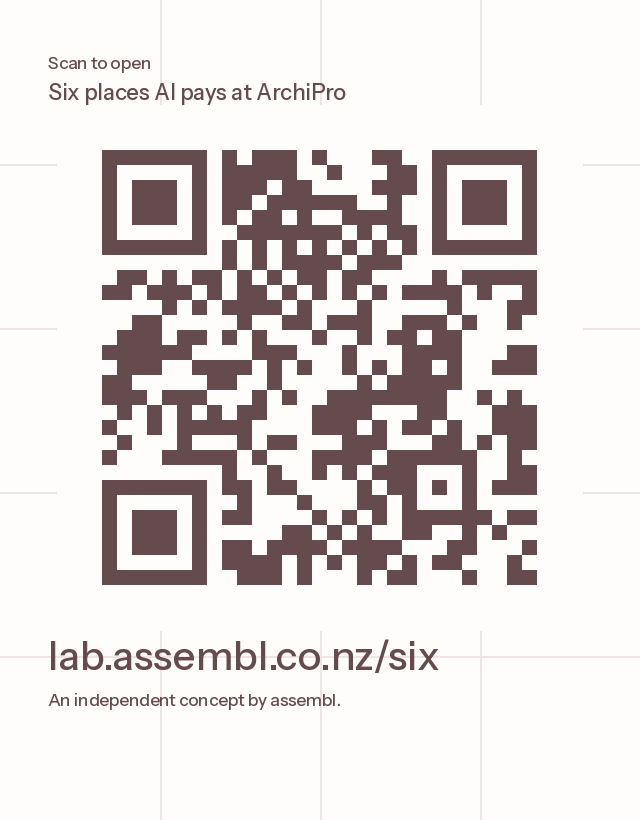
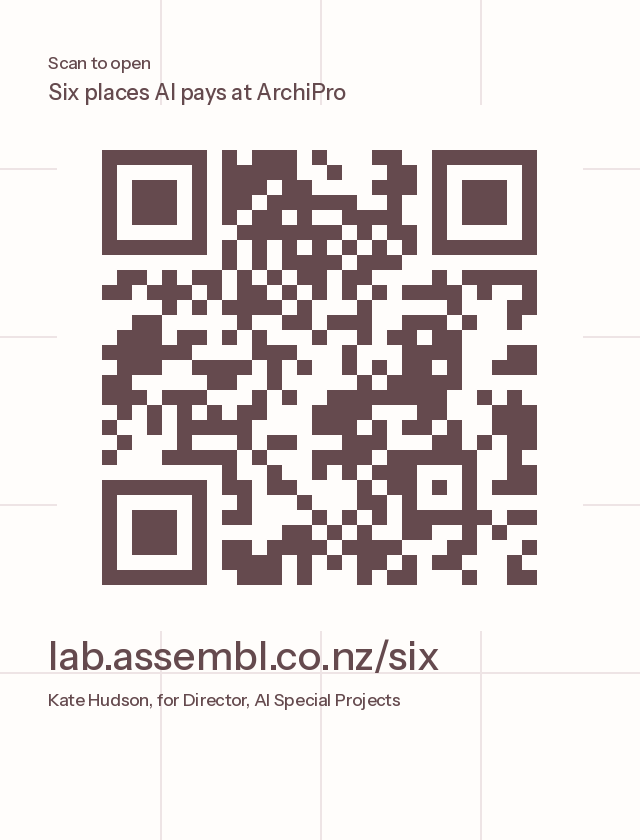
ArchiPro concept: framed as Kate's working sample for Director, AI Special Projects
The hero, title, closing note, footer and link preview now say this is Kate's working sample for the role; the first
ninety days are named as such; the studio guide knows why the page exists and answers "Why Kate for AI Special
Projects?" from what the page shows; the QR card carries the role.

Claude-Session: https://claude.ai/code/session_01Qg5XxSRkFNw1UTNv1sp8XK

diff --git a/concepts/archipro/index.html b/concepts/archipro/index.html
@@ -4,11 +4,11 @@
 <meta charset="utf-8">
 <meta name="viewport" content="width=device-width, initial-scale=1, viewport-fit=cover">
 <meta name="robots" content="noindex, nofollow">
-<title>Six places AI pays at ArchiPro · an independent concept by assembl</title>
-<meta name="description" content="A working concept by Kate Hudson at assembl: six ideas for ArchiPro, each running on this page, with Plan Studio drawing a real set and a live studio guide that drives it.">
+<title>Six places AI pays at ArchiPro · Kate Hudson, for Director, AI Special Projects</title>
+<meta name="description" content="A working sample by Kate Hudson for ArchiPro's Director, AI Special Projects role: six ideas for ArchiPro, each running on this page, with Plan Studio drawing a real set and a live studio guide that drives it.">
 <meta name="robots" content="noindex">
 <meta property="og:title" content="Six places AI pays at ArchiPro">
-<meta property="og:description" content="An independent concept by assembl. Six ideas, each working on the page.">
+<meta property="og:description" content="Kate Hudson's working sample for Director, AI Special Projects. Six ideas, each working on the page.">
 <meta property="og:image" content="https://lab.assembl.co.nz/concepts/archipro/media/two-homes-render.webp">
 <meta property="og:url" content="https://lab.assembl.co.nz/six/">
 <link rel="icon" href="/lab/favicon.svg" type="image/svg+xml">
@@ -42,7 +42,7 @@
   <div class="lines" aria-hidden="true"></div>
   <div class="giant" data-word="six" data-at="hero" aria-hidden="true"></div>
   <div class="hero-in">
-    <p class="hero-k">An independent concept<br>prepared for ArchiPro<br>November 2026</p>
+    <p class="hero-k">Kate Hudson, for the<br>Director, AI Special Projects role<br>November 2026</p>
     <h1 id="hero-h">Six places AI pays at ArchiPro.</h1>
     <p class="hero-n"><b>06</b><span>ideas, each working on this page</span></p>
     <p class="hero-cap mono">Two homes, rendered. Not a photograph.</p>
@@ -286,14 +286,14 @@
 
 <!-- 08 how -->
 <section class="how" id="plan" aria-labelledby="how-h">
-  <div class="sec-k"><span class="mono">08</span><h2 id="how-h">How I'd start.</h2></div>
+  <div class="sec-k"><span class="mono">08</span><h2 id="how-h">How I'd start, in the first ninety days.</h2></div>
   <ol class="steps">
     <li><b class="big">01</b><span class="mono">Weeks 1–3</span><h3>Pick one, set the baseline.</h3><p>Choose the idea with the clearest number behind it, likely the catalogue feed. Agree the measure, the window and where the data comes from before building anything.</p></li>
     <li><b class="big">02</b><span class="mono">Weeks 4–8</span><h3>Ship it to a small group.</h3><p>A real feed, a real assistant integration, a few suppliers who opt in. Every change on a branch, tested in a browser, previewed and approved before it goes live.</p></li>
     <li><b class="big">03</b><span class="mono">Weeks 9–12</span><h3>Read the evidence, then widen.</h3><p>Show what moved, what it cost and what went wrong. Expand only if it clears the bar we set in week one.</p></li>
   </ol>
   <div class="me">
-    <p>Kate Hudson, founder of assembl. Assembling the agent world for New Zealand business.</p>
+    <p>Kate Hudson, for Director, AI Special Projects. I founded assembl to assemble the agent world for New Zealand business, I build with AI agents every day, and every idea on this page runs.</p>
     <button class="btn primary" type="button" data-guide-open>Ask the studio guide anything</button>
   </div>
 </section>
@@ -301,7 +301,7 @@
 </main>
 
 <footer class="foot">
-  <p>Independent assembl concept. Not commissioned by, affiliated with or endorsed by ArchiPro. Simulated data unless explicitly stated otherwise. Supplier, practice and house details are invented for this concept; any likeness to a real business is coincidence. ArchiPro figures are from the public sources cited beside them. The renders of two homes and the café are assembl's own. The studio guide runs on Claude through the Anthropic API; its voice, when switched on, is generated by ElevenLabs. Conversations are not stored.</p>
+  <p>A working sample by Kate Hudson for ArchiPro's Director, AI Special Projects role. Not commissioned by, affiliated with or endorsed by ArchiPro. Simulated data unless explicitly stated otherwise. Supplier, practice and house details are invented for this concept; any likeness to a real business is coincidence. ArchiPro figures are from the public sources cited beside them. The renders of two homes and the café are assembl's own. The studio guide runs on Claude through the Anthropic API; its voice, when switched on, is generated by ElevenLabs. Conversations are not stored.</p>
   <div class="end"><span class="mark">assembl<span>.</span></span><span class="mono">Kate Hudson · Tāmaki Makaurau · 2026</span></div>
 </footer>
 

diff --git a/concepts/archipro/agent.js b/concepts/archipro/agent.js
@@ -12,7 +12,7 @@ const small = () => matchMedia("(max-width: 600px)").matches;
 let live = null, route = "primary", modelName = "Claude Fable 5.2", busy = false, voiceOn = true, eleven = false;
 const history = [];
 const TRY = ["Fix the kitchen ventilation, then show me the schedule", "Make the living wing 11 metres and print the plans", "Which cladding suits a sea-spray site?",
-  "Put black joinery and cedar on the real house at sunset", "What would you do in the first ninety days?"];
+  "Put black joinery and cedar on the real house at sunset", "Why Kate for AI Special Projects?", "What would you do in the first ninety days?"];
 
 // ---------------------------------------------------------------------------------------------- open and close
 panel.classList.add("phone");
@@ -153,6 +153,7 @@ async function run(name, a) {
 // ---------------------------------------------------------------------------------------------- the scripted fallback (no AI)
 function scripted(t) {
   const q = t.toLowerCase(), S = window.__studio, P = window.__page, pre = "Scripted reply (the live guide isn't switched on for this preview). ";
+  if (/why kate|special projects|the role|hire|ninety|90 days/.test(q)) { P.go("plan"); return { text: `${pre}Kate made this page as a working sample for the Director, AI Special Projects role. Every idea on it runs. She'd start with one idea and an agreed baseline, ship it to a small group, then widen only on the evidence, with named people approving each step. Her architecture studio already works this way, with 33 specialist agents and a human reviewer for each.`, did: ["Went to the first ninety days"] }; }
   if (/print/.test(q)) { const n = S.print(); return { text: `${pre}I've opened the print dialog with all ${n} sheets at A3 landscape.`, did: ["Opened the print dialog"] }; }
   if (/kitchen|ventilat/.test(q)) { S.go(); const r = S.set({ kitchenWindow: 3600 }); S.showSheet("A901"); return { text: `${pre}I widened the kitchen window to 3.6 metres. ${r.precheck.fail ? `${r.precheck.fail} item still to resolve.` : "Nothing is left to resolve in the pre-check."} The schedule is on sheet A901.`, did: ["Changed the house: kitchen window 3.6 m", "Showed sheet A901"] }; }
   const w = q.match(/(\d+(?:\.\d+)?)\s*(?:m\b|metres?|meters?)/);

diff --git a/functions/api/archipro-agent.js b/functions/api/archipro-agent.js
@@ -74,6 +74,9 @@ The page, chapter by chapter
 ArchiPro's public figures, as shown on the page
 ${facts}
 
+Why this page exists
+Kate Hudson made this page as a working sample for ArchiPro's Director, AI Special Projects role. If someone asks why Kate, or what she would do in the role, answer from what is on the page: six ideas that each run here, the way she works (one idea at a time, a baseline agreed first, a small group before anyone else, evidence before widening, named people approving), the first ninety days in chapter 08, and the architecture studio in chapter 07 as proof she already runs agents this way. Be warm and direct, never boastful, and don't claim results or relationships the page doesn't show.
+
 About Kate
 Founder of assembl, assembling the agent world for New Zealand business, with thirteen years in brand and marketing strategy across automotive, construction, education and childcare. She builds with AI agents every day. Don't add other personal details, past employers or job titles.
 
